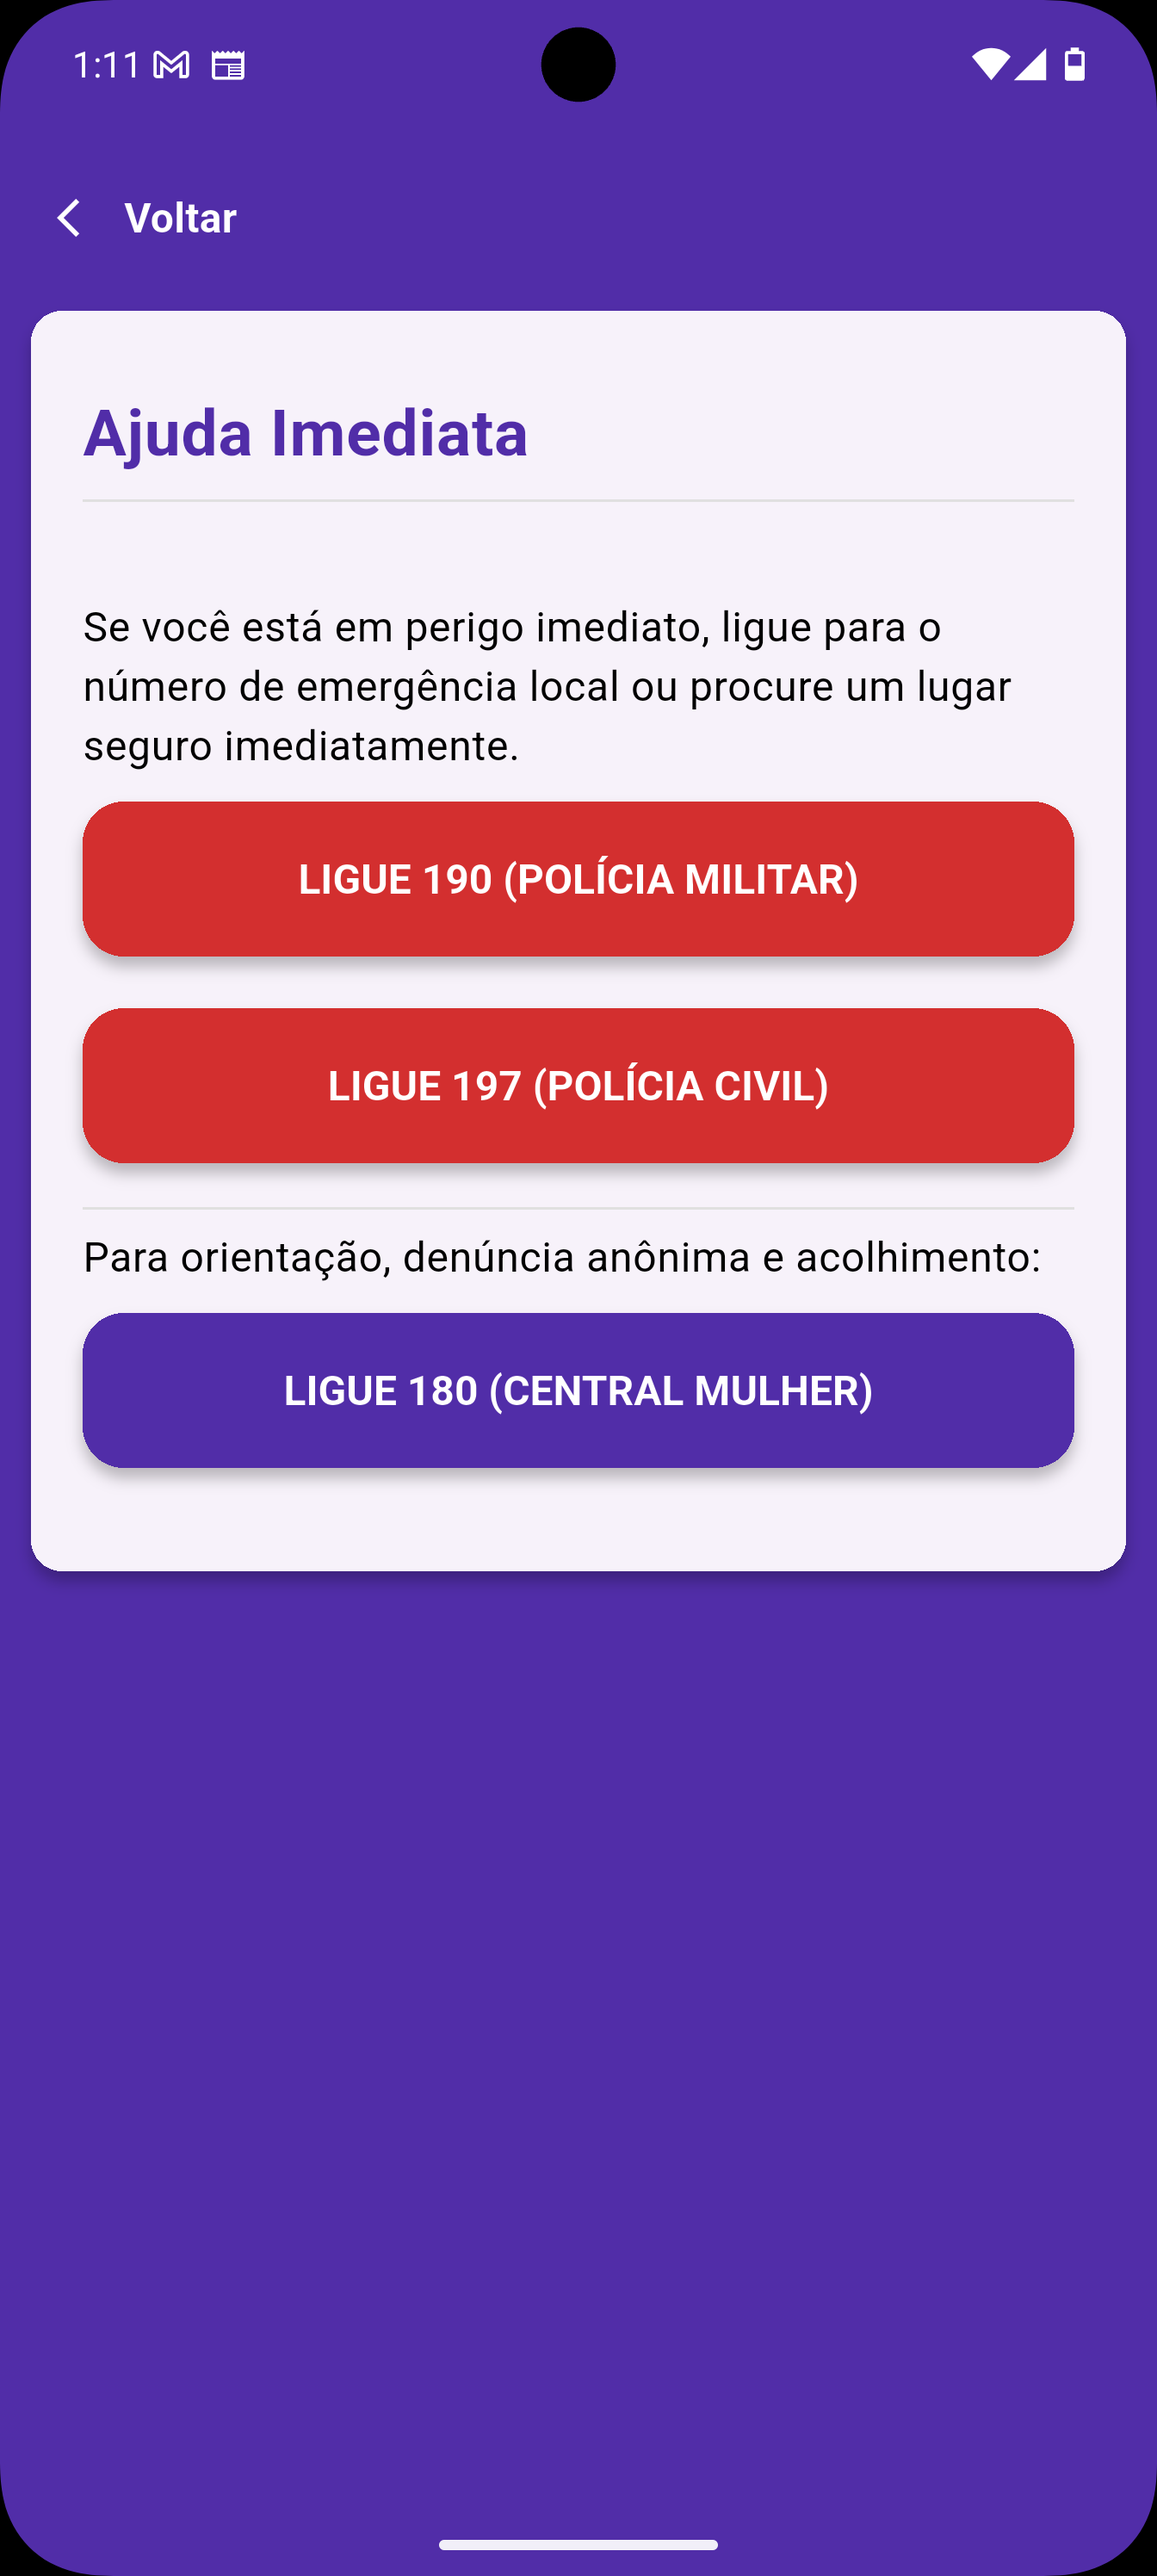
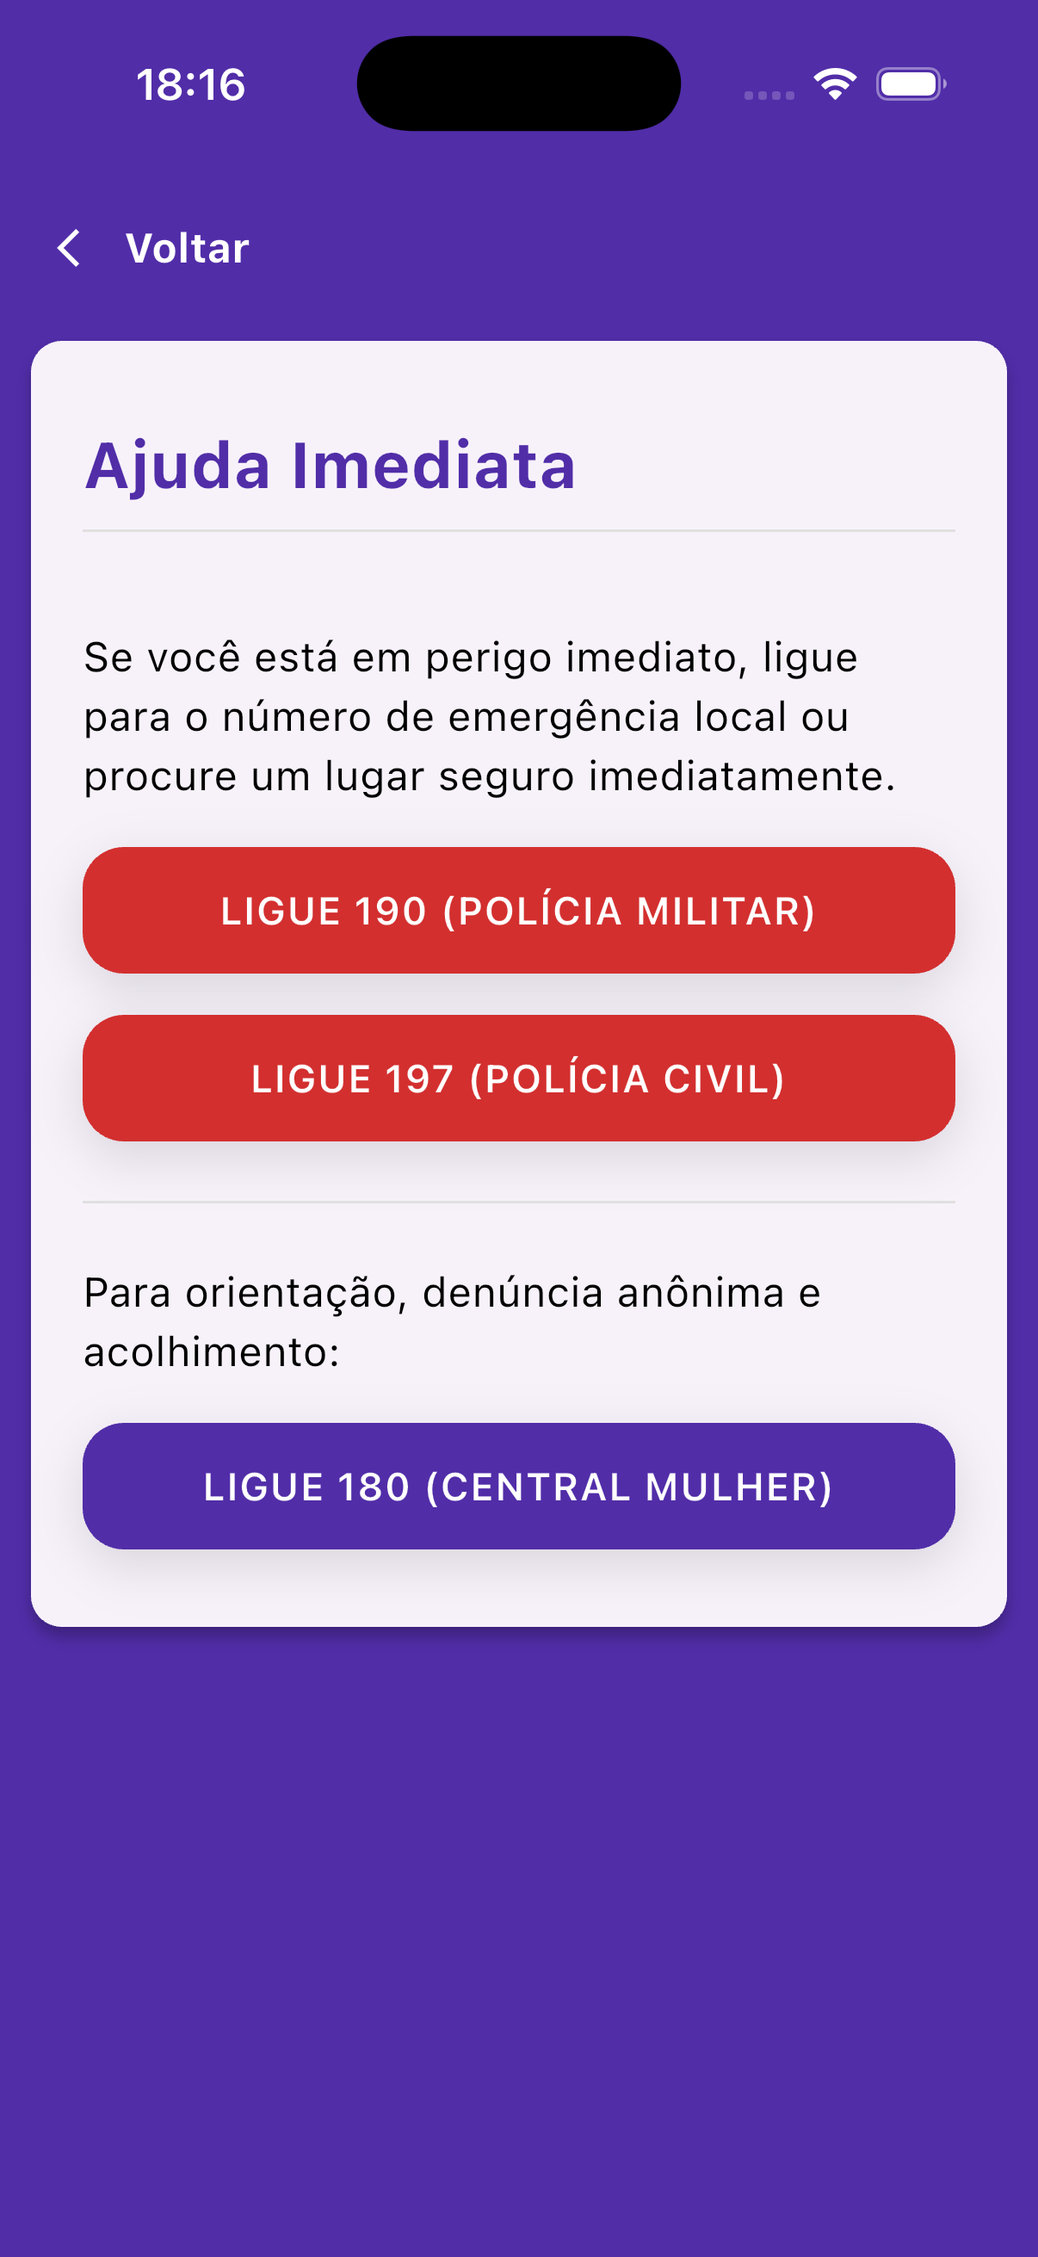
assets: atualiza screenshots com novo design e atualiza README

diff --git a/README.md b/README.md
@@ -9,11 +9,11 @@ Um aplicativo focado em oferecer um ambiente **seguro, discreto e acessível**, 
 ## Demonstração Visual
 
 <p align="center">
-  <img src="assets/tela_inicial.jpg?v=2" alt="Tela Inicial do Segura" width="19%">
-  <img src="assets/tela_ajuda.jpg?v=2" alt="Tela de Ajuda Imediata" width="19%">
-  <img src="assets/tela_mapa.jpg?v=2" alt="Mapa de Segurança Integrado" width="19%">
-  <img src="assets/tela_sos.jpg?v=2" alt="Funcionalidade SOS" width="19%">
-  <img src="assets/tela_snake.jpg?v=2" alt="Tela de Camuflagem (Snake)" width="19%">
+  <img src="assets/tela_inicial.jpg?v=3" alt="Tela Inicial do Segura" width="19%">
+  <img src="assets/tela_ajuda.jpg?v=3" alt="Tela de Ajuda Imediata" width="19%">
+  <img src="assets/tela_mapa.jpg?v=3" alt="Mapa de Segurança Integrado" width="19%">
+  <img src="assets/tela_sos.jpg?v=3" alt="Funcionalidade SOS" width="19%">
+  <img src="assets/tela_snake.jpg?v=3" alt="Tela de Camuflagem (Snake)" width="19%">
 </p>
 
 ---
